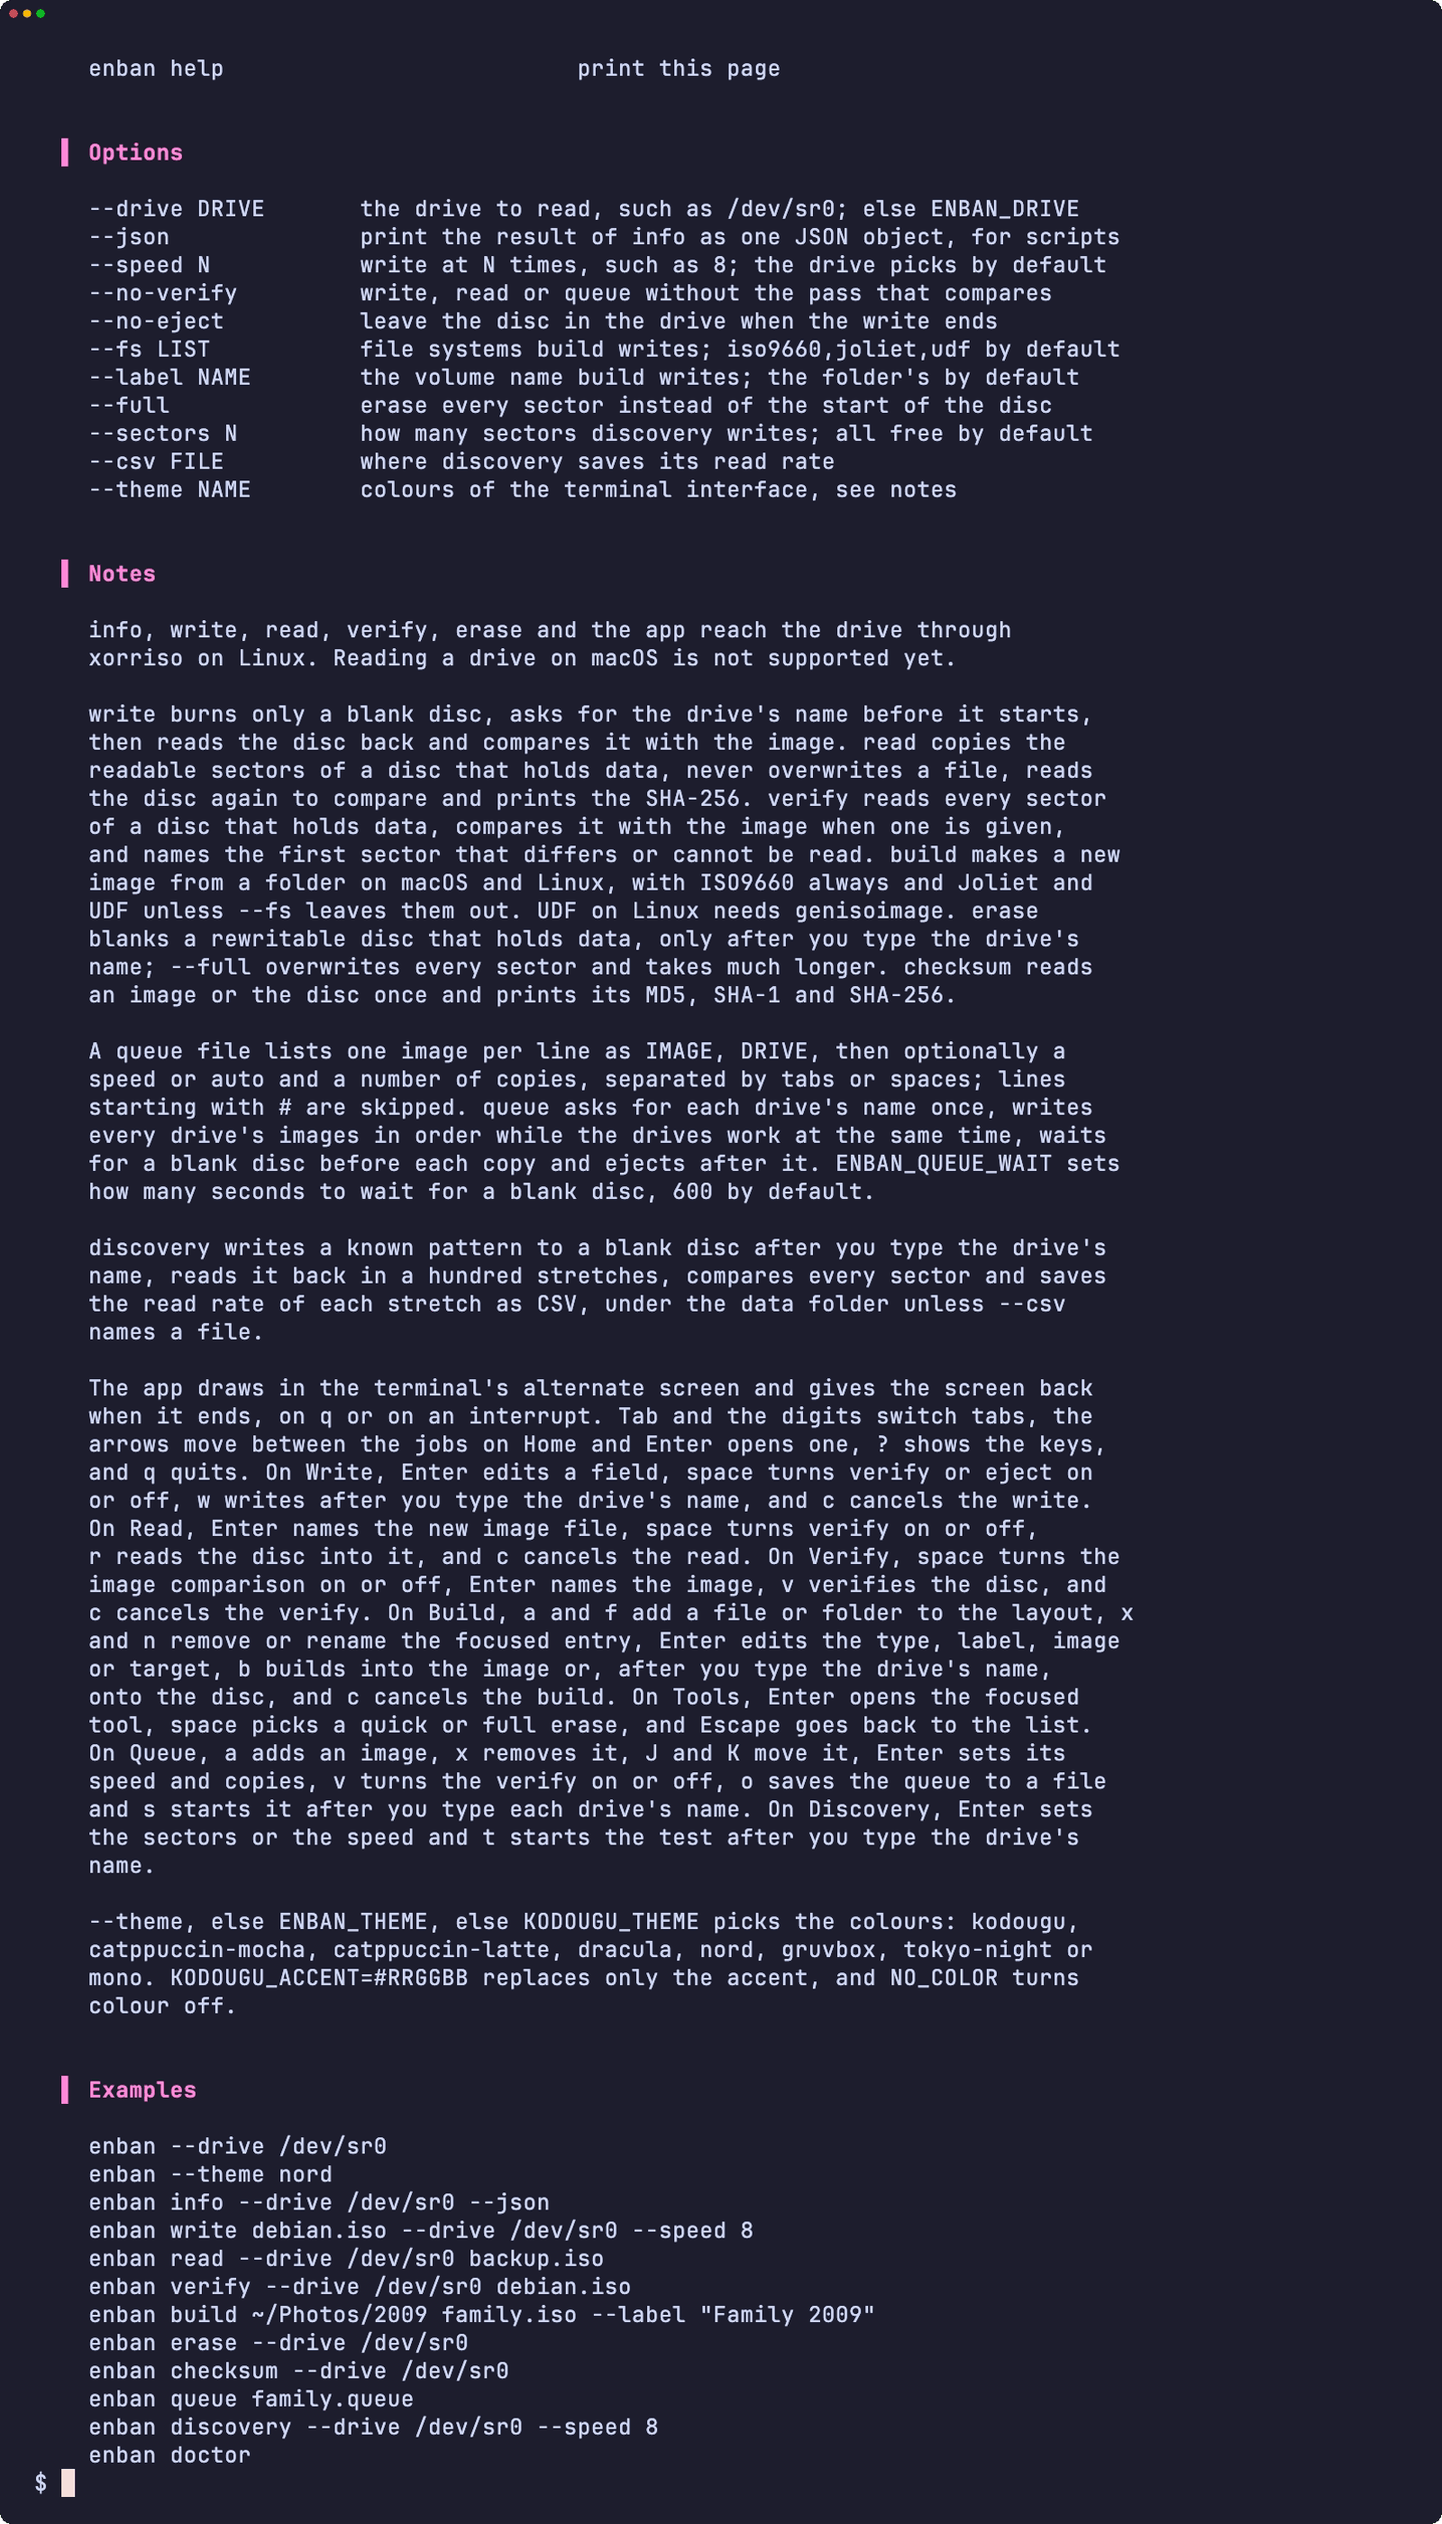
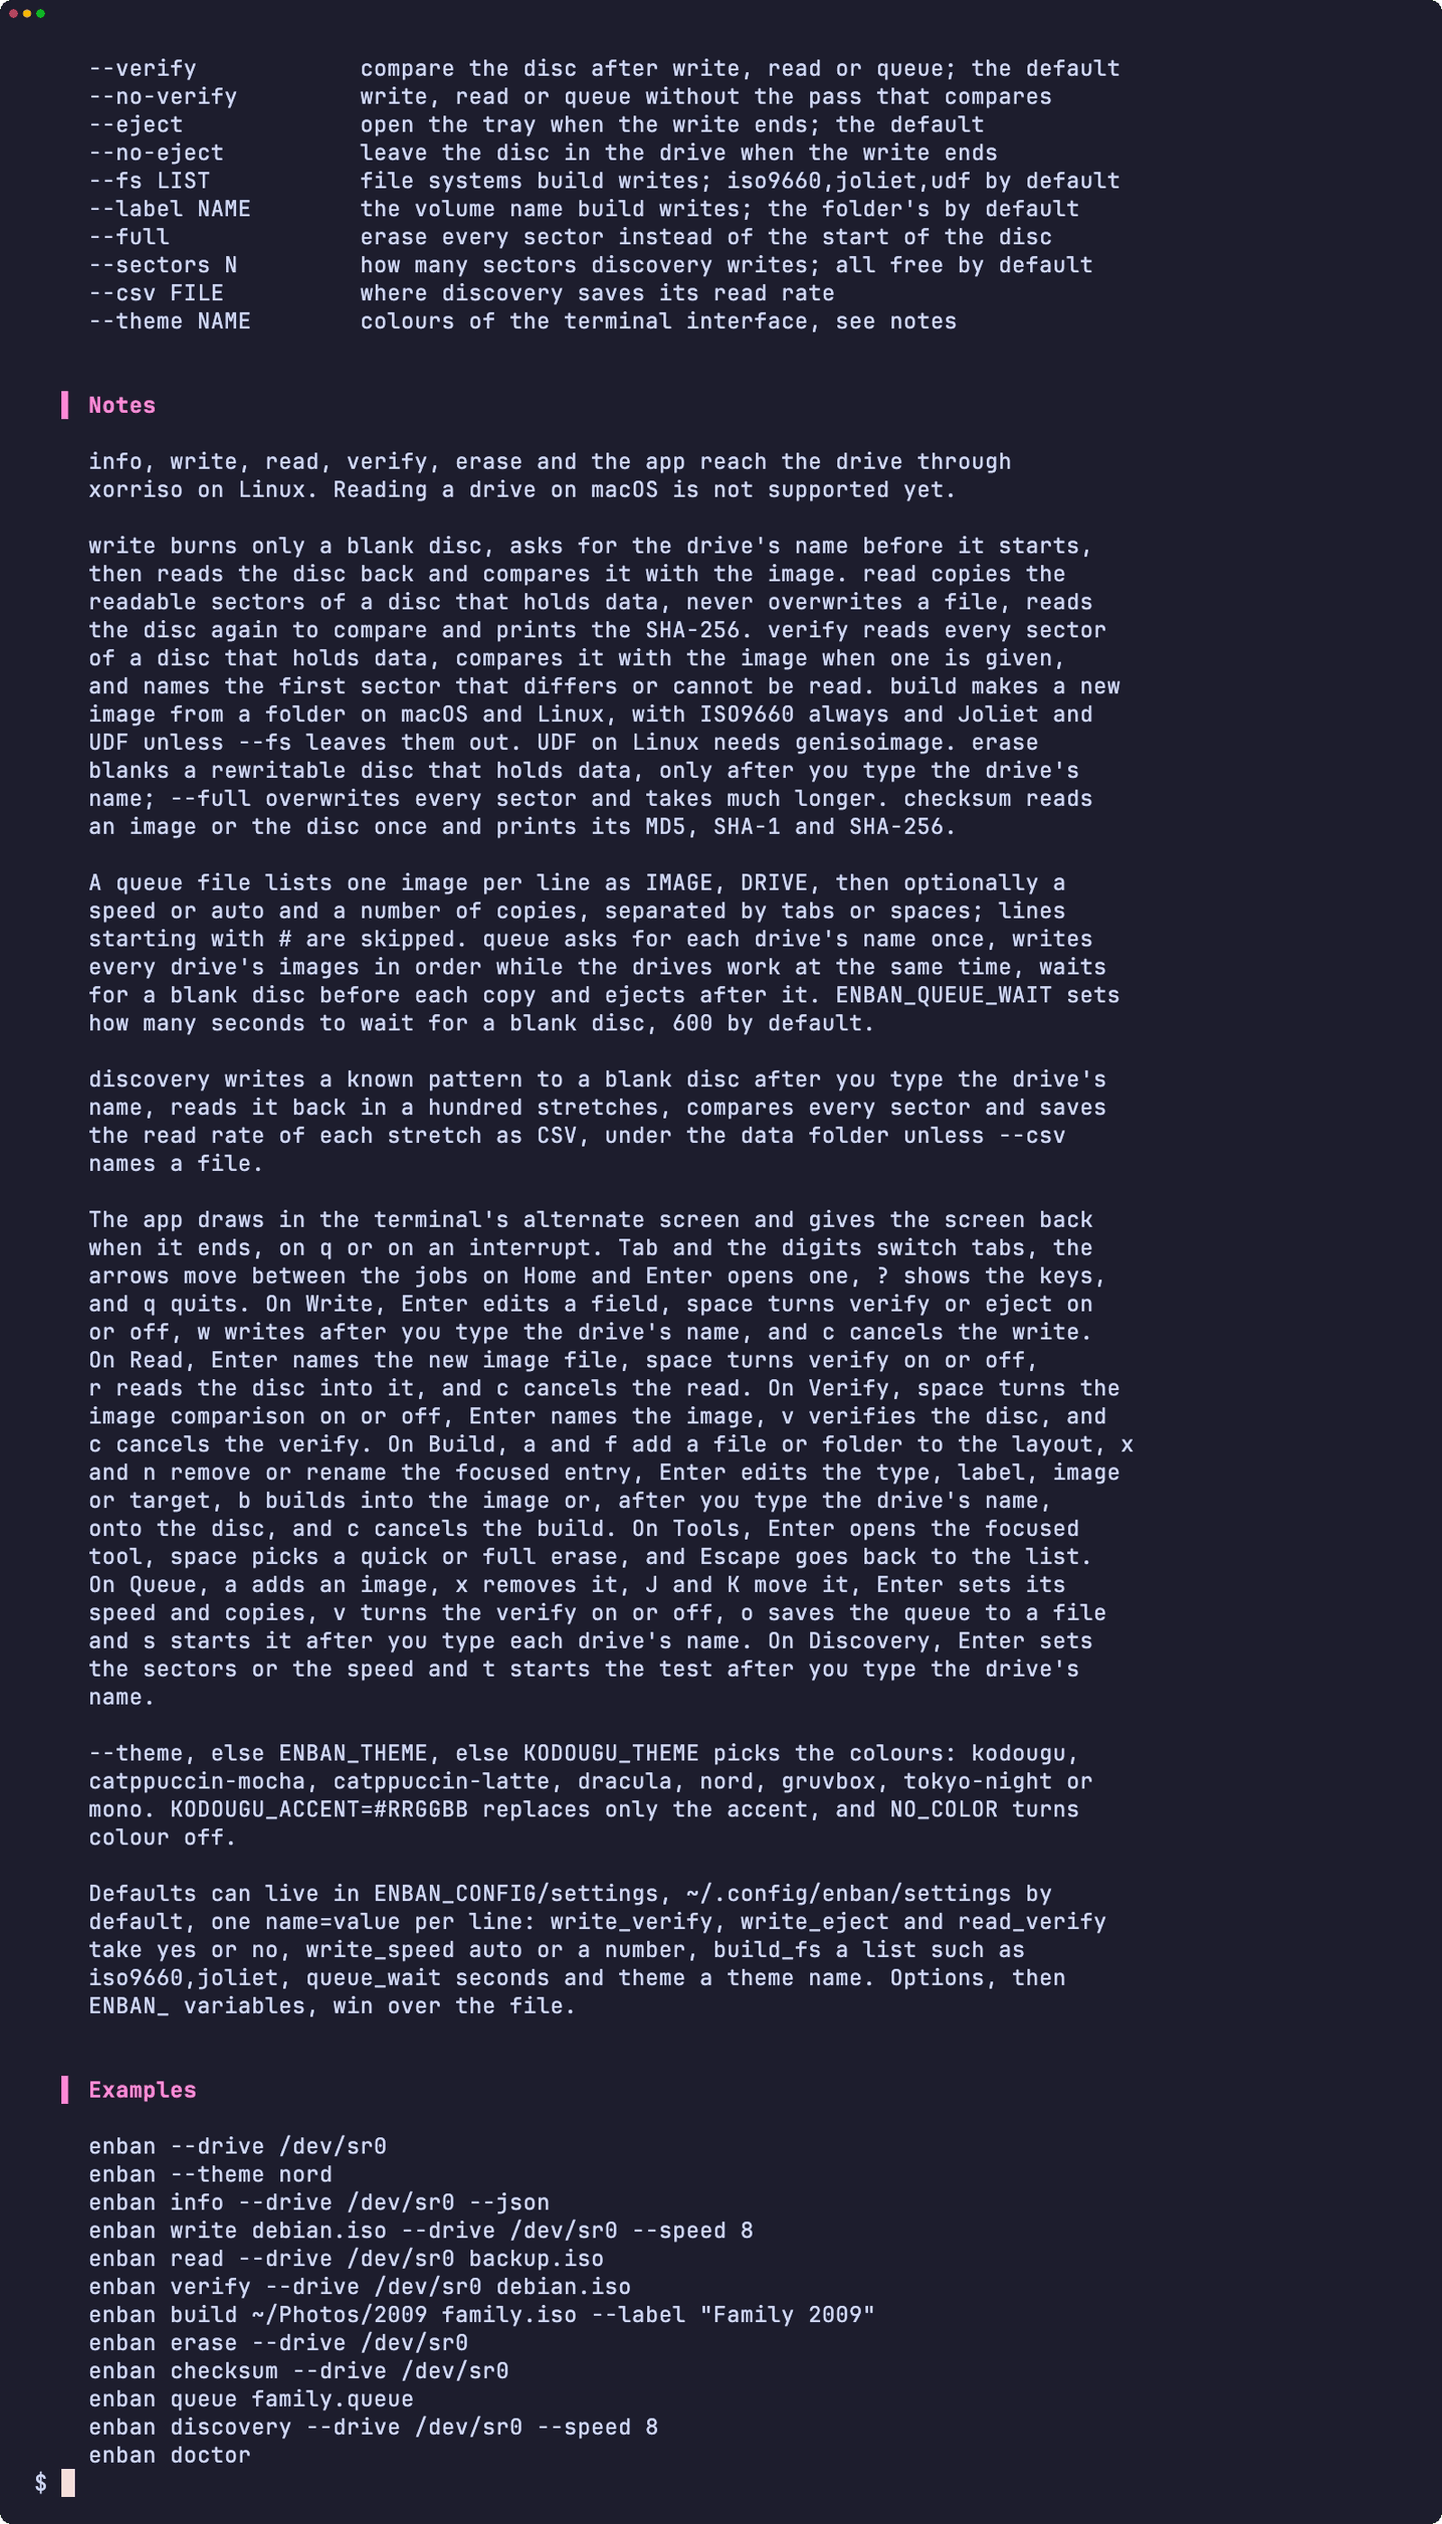
feat: keep defaults in a settings file
ENBAN_CONFIG/settings, ~/.config/enban/settings by default, holds one
name=value per line: write_verify, write_eject, read_verify,
write_speed, build_fs, queue_wait and theme. It is read before the
options, so an option, then an ENBAN_ variable, wins over it; a line
enban cannot use is named in a warning and skipped. --verify and
--eject turn back on what the file turned off, and using a form with
its opposite is refused. read now has a verify switch of its own, and
the app's tabs start from these defaults.

Changed region(s): [[0.0625, 0.0, 0.7812, 0.8079]]

diff --git a/README.md b/README.md
@@ -104,7 +104,9 @@ make install
 | `?` | Show the keys; the next key closes them |
 | `q` or Ctrl+D | Quit and give the terminal back; refused while a job runs |
 
-`--theme <name>` picks the colours; `ENBAN_THEME`, then `KODOUGU_THEME`, set the same, and `NO_COLOR` turns colour off. enban follows the shared command-line contract of its family, described in [FAMILY.md](FAMILY.md).
+`--theme <name>` picks the colours; `ENBAN_THEME`, then `KODOUGU_THEME`, set the same, and `NO_COLOR` turns colour off.
+
+Defaults can live in a settings file, `~/.config/enban/settings` or `ENBAN_CONFIG/settings`, one `name=value` per line: `write_verify`, `write_eject` and `read_verify` take `yes` or `no`, `write_speed` takes `auto` or a number, `build_fs` a list such as `iso9660,joliet`, `queue_wait` seconds, and `theme` a theme name. An option, then an `ENBAN_` variable, wins over the file, and `--verify` or `--eject` turn back on what the file turned off. enban follows the shared command-line contract of its family, described in [FAMILY.md](FAMILY.md).
 
 <a id="how-it-works"></a>
 

diff --git a/AGENTS.md b/AGENTS.md
@@ -44,6 +44,7 @@ Guidance for anyone, human or agent, changing enban. What enban is and how to us
 
 ## Domain rules
 
+- Settings resolve as option, then `ENBAN_` variable, then `ENBAN_CONFIG/settings`, then the built-in default. The file is read before the options are parsed and only fills what no variable set; a line enban cannot use is named in a warning and skipped, so a broken file never stops a job.
 - No loop redirects a numbered file descriptor such as `done 9<file`: bashcov traces through a pipe whose descriptor number varies, so the redirect can swallow the trace and the loop's lines count as never run. Loops that must read stdin inside walk a file by line number instead.
 - Keys are read with `dd` one byte at a time and decoded from hex, because a command substitution strips the newline Enter sends.
 - Ctrl+D arrives as byte `04` inside a terminal, never as an empty read, so both mean the end of the session.
